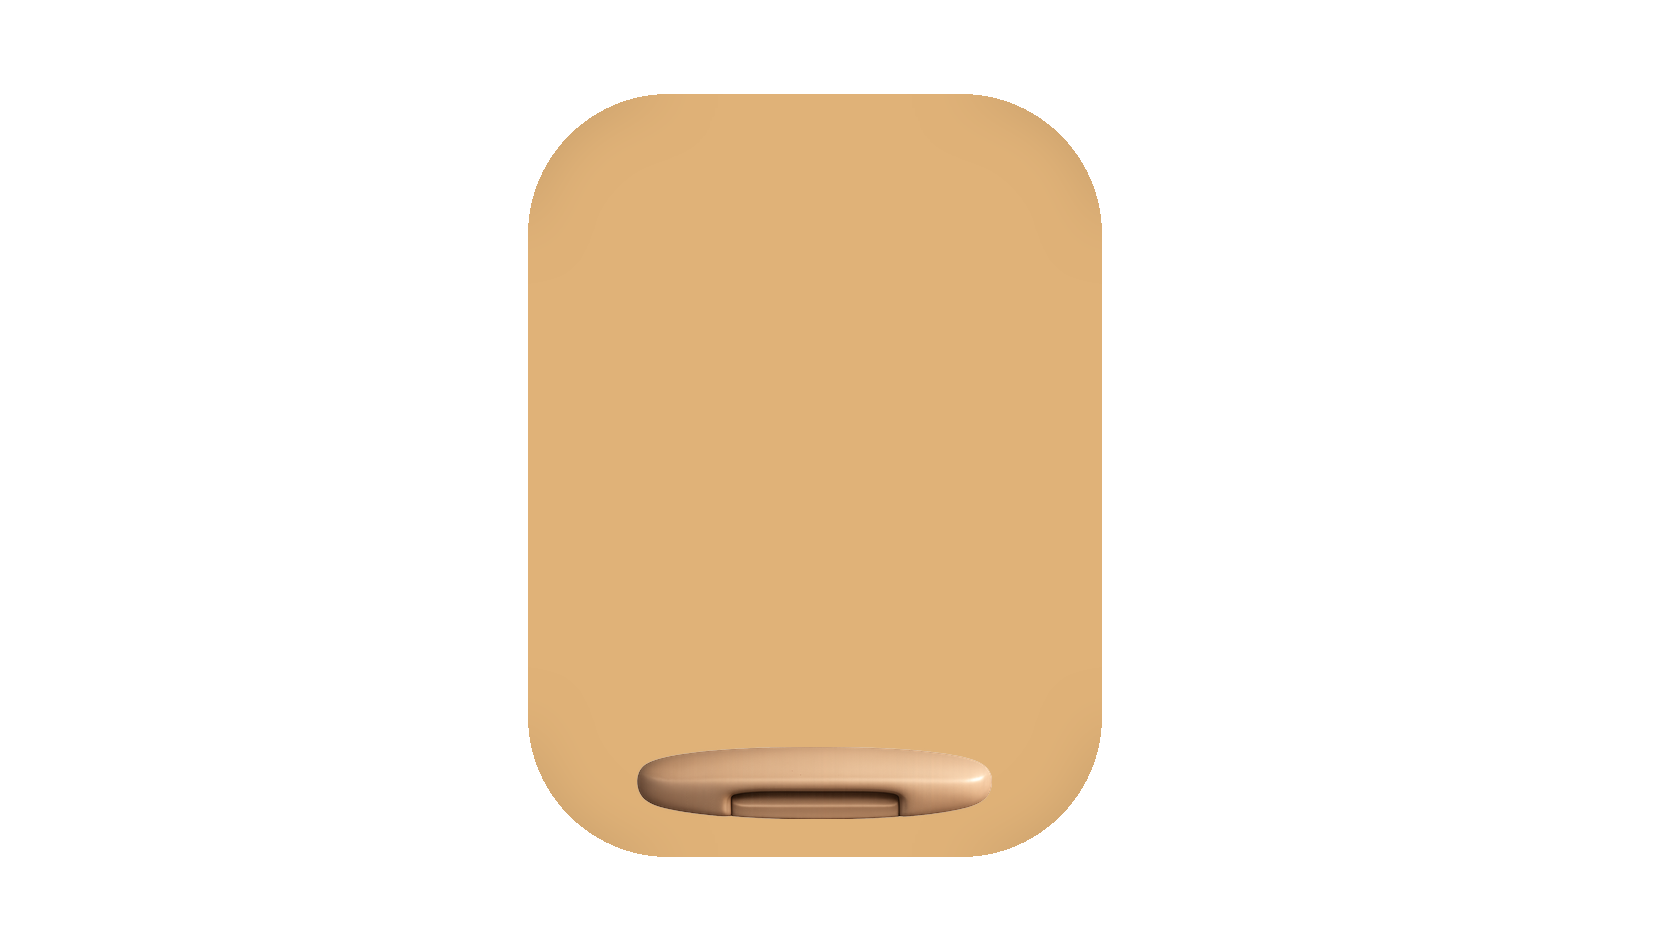
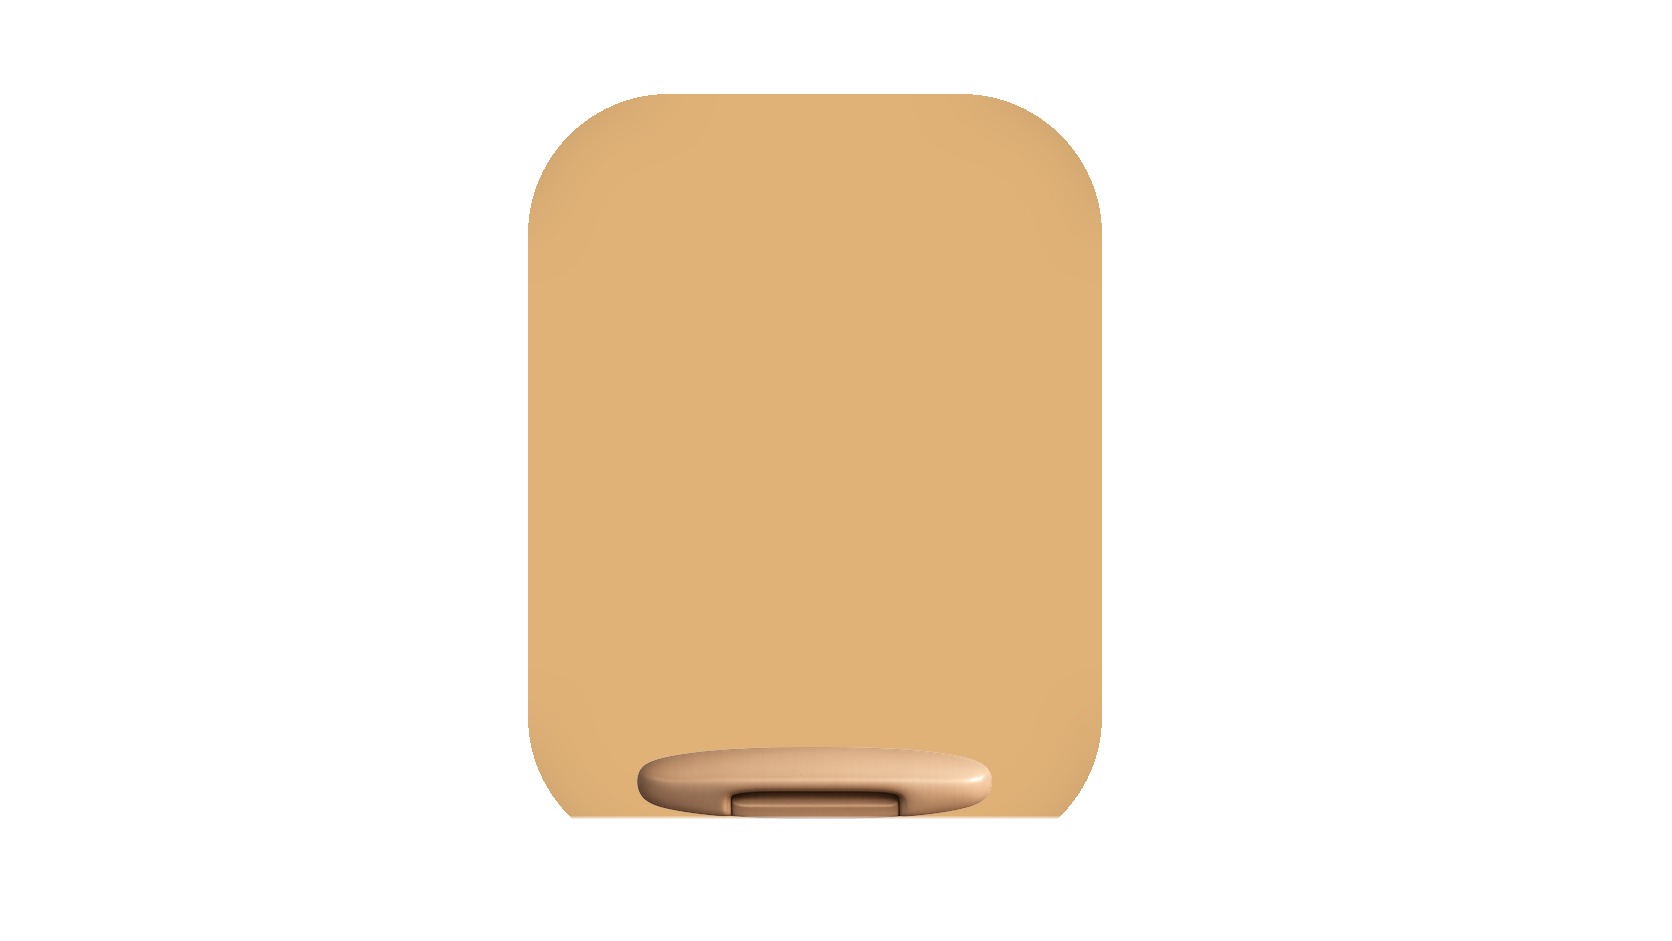
Fix scroll bar layout, handle animation, and server config
- Shrink hero-scroll rule, reduce font sizes and bar padding for tighter bottom bar
- Shift scroll bar right (left:62%) so rule spans full width above SCROLL DOWN
- Pre-position shutterHandle at its final resting spot so it never animates with the shutter lift
- Remove handle from scale/yPercent scroll animations; fade it out only after cabin zooms through
- Revert shutterHandle to z-index 1 so it sits behind the cabin frame naturally
- Switch dev server from python3 http.server to npx serve (fixes PermissionError)

Changed region(s): [[0.3421, 0.8629, 0.6531, 0.9245]]

diff --git a/script.js b/script.js
@@ -24,6 +24,15 @@ document.documentElement.style.overflow = "hidden";
 /* ---------------------------------------------------------
    FRAME 0 — PRELOADER (fades out, no lift)
 --------------------------------------------------------- */
+function shutterLift() {
+  const st = document.querySelector(".hero-stage");
+  if (!st || !st.clientHeight) return -68;
+  const H = st.clientHeight, W = st.clientWidth;
+  const scale = Math.max(W / 1672, H / 941);
+  // 94 = window top row, 764 = knob top row; subtract small offset to sit just inside the frame
+  return -(((764 - 94) * scale / H) * 100 - 1);
+}
+
 function runPreloader() {
   const num = document.getElementById("loadNum");
   const counter = { v: 0 };
@@ -31,6 +40,8 @@ function runPreloader() {
   /* hero waits behind, slightly scaled-in */
   gsap.set(["#cabin", "#shutter", ".sky-video"], { scale: 1.12 });
   gsap.set("#shutter", { yPercent: 0 });
+  /* handle is pre-positioned at its final resting spot and never moves */
+  gsap.set("#shutterHandle", { yPercent: shutterLift });
   gsap.set("#nav", { opacity: 0 });
   gsap.set(["#titleL", "#titleR"], { opacity: 0, y: 40 });
   gsap.set("#heroFg", { opacity: 0 });
@@ -48,9 +59,11 @@ function runPreloader() {
     .to("#preloader", { opacity: 0, duration: 1.1, ease: "InOut" }, "-=.2")
     /* settle the cabin + reveal hero copy */
     .to(["#cabin", "#shutter", ".sky-video"], { scale: 1, duration: 1.7, ease: "Out" }, "-=1.1")
-    /* lift the window shutter up — its bottom lip + knob come to rest tucked
-       just under the top of the window frame (like a real raised shade) */
-    .to("#shutter", { yPercent: -68, duration: 3.4, ease: "InOut" }, "-=1.2")
+    /* lift only the shutter panel — handle is already at its fixed position */
+    .to("#shutter", { yPercent: () => shutterLift(), duration: 3.4, ease: "InOut" }, "-=1.2")
+    /* swap: panel gone, knob-only layer stays — panel can never reappear during zoom */
+    .set("#shutter", { opacity: 0 })
+    .set("#shutterHandle", { opacity: 1 })
     .to("#nav", { opacity: 1, duration: .9, ease: "Out" }, "-=1.3")
     .to(["#titleL", "#titleR"], { opacity: 1, y: 0, duration: 1.1, ease: "Out", stagger: .12 }, "-=1.2")
     .to("#heroFg", { opacity: 1, duration: 1, ease: "Out" }, "-=1")
@@ -74,8 +87,8 @@ function buildHero() {
   gsap.timeline({
     scrollTrigger: { trigger: ".hero_scroll-area", start: "top top", end: "bottom bottom", scrub: true },
   })
-    .to("#cabin",     { scale: 9,    ease: "none", duration: .6 }, 0)
-    .to(".sky-video", { scale: 1.12, ease: "none", duration: .9 }, 0);
+    .to("#cabin",          { scale: 9,    ease: "none", duration: .6 }, 0)
+    .to(".sky-video",      { scale: 1.12, ease: "none", duration: .9 }, 0);
 
   /* CONTINUOUS DESCENT — objectPosition pans through the video altitude.
      scrub:1.5 adds gentle lag-smoothing to eliminate micro-jank. */
@@ -95,15 +108,19 @@ function buildHero() {
     { opacity: 0, ease: "none",
       scrollTrigger: { trigger: ".hero_scroll-area", start: "84% top", end: "bottom top", scrub: 2 } });
 
+  /* handle fades out only after cabin has fully zoomed through */
+  gsap.to("#shutterHandle", { opacity: 0, ease: "none",
+    scrollTrigger: { trigger: ".hero_scroll-area", start: "45% top", end: "58% top", scrub: true } });
+
   /* Text/UI vanishes instantly the moment any scroll happens */
   let _hidden = false;
   lenis.on("scroll", ({ scroll }) => {
     if (scroll > 10 && !_hidden) {
       _hidden = true;
-      gsap.to(["#titleL","#titleR","#heroFg","#nav","#shutter"], { opacity: 0, duration: 0.25, ease: "power2.in", overwrite: true });
+      gsap.to(["#titleL","#titleR","#heroFg","#nav"], { opacity: 0, duration: 0.25, ease: "power2.in", overwrite: true });
     } else if (scroll <= 10 && _hidden) {
       _hidden = false;
-      gsap.to(["#titleL","#titleR","#heroFg","#shutter"], { opacity: 1, duration: 0.4, ease: "power2.out", overwrite: true });
+      gsap.to(["#titleL","#titleR","#heroFg"], { opacity: 1, duration: 0.4, ease: "power2.out", overwrite: true });
       gsap.to("#nav",                           { opacity: 1, duration: 0.4, ease: "power2.out", overwrite: true });
     }
   });

diff --git a/style.css b/style.css
@@ -147,14 +147,30 @@ a{color:inherit;text-decoration:none}
 .btn-pill:hover{transform:translateX(-50%) translateY(-2px);background:rgba(255,255,255,0.2)}
 .btn-pill_ico{width:28px;height:28px;border-radius:50%;background:rgba(255,255,255,0.22);color:#fff;display:grid;place-items:center}
 .hero-scroll{
-  position:absolute;right:clamp(1.2rem,3.5vw,3.4rem);bottom:7vh;
-  display:flex;align-items:center;gap:1rem;
-  font-size:.72rem;letter-spacing:.2em;text-transform:uppercase;font-weight:600;
+  position:absolute;left:62%;right:0;bottom:0;
+  display:flex;flex-direction:column;
+  font-size:.72rem;letter-spacing:.18em;text-transform:uppercase;font-weight:700;color:#fff;
 }
-.hero-scroll i{opacity:.5;font-style:normal}
-.hero-scroll_line{width:64px;height:1px;background:rgba(255,255,255,.4)}
-.hero-scroll_chev{width:18px;height:18px;border-right:2px solid #fff;border-bottom:2px solid #fff;transform:rotate(45deg);animation:chev 1.8s var(--ease) infinite}
-@keyframes chev{0%,100%{transform:rotate(45deg) translate(0,0);opacity:.4}50%{transform:rotate(45deg) translate(3px,3px);opacity:.9}}
+.hero-scroll_rule{display:block;width:100%;height:1px;background:rgba(255,255,255,.35)}
+.hero-scroll_bar{
+  display:flex;align-items:center;justify-content:space-between;
+  padding:.55rem clamp(1.2rem,3.5vw,3.4rem);
+}
+.hero-scroll_left{display:flex;align-items:center;gap:.75rem}
+.hero-scroll_chev{
+  display:flex;flex-direction:column;gap:2px;
+}
+.hero-scroll_chev::before,.hero-scroll_chev::after{
+  content:'';display:block;
+  width:7px;height:7px;
+  border-right:1.5px solid #fff;border-bottom:1.5px solid #fff;
+  transform:rotate(45deg);
+  animation:chev 1.8s var(--ease) infinite;
+}
+.hero-scroll_chev::after{animation-delay:.18s}
+.hero-scroll_label{font-size:.62rem;letter-spacing:.18em;font-weight:700}
+.hero-scroll_right{font-size:.62rem;letter-spacing:.18em;font-weight:700}
+@keyframes chev{0%,100%{opacity:.35;transform:rotate(45deg) translate(0,0)}50%{opacity:1;transform:rotate(45deg) translate(3px,3px)}}
 @media(max-width:900px){.hero-scroll,.hero-lead .rule{display:none}}
 
 .btn-pill.dark{position:static;transform:none;background:var(--ink);color:var(--paper);padding:1rem 2rem}

diff --git a/index.html b/index.html
@@ -9,7 +9,7 @@
   <link rel="preconnect" href="https://fonts.googleapis.com" />
   <link rel="preconnect" href="https://fonts.gstatic.com" crossorigin />
   <link href="https://fonts.googleapis.com/css2?family=Manrope:wght@300;400;500;600;700;800&display=swap" rel="stylesheet" />
-  <link rel="stylesheet" href="style.css?v=18" />
+  <link rel="stylesheet" href="style.css?v=22" />
 </head>
 <body>
 
@@ -49,8 +49,9 @@
     <div class="hero-w">
       <div class="hero-stage">
 
-        <!-- window shutter — sits in the window opening, lifts up on load -->
-        <img class="shutter" id="shutter" src="assets/cabin-shutter.png?v=4" alt="" />
+        <!-- window shutter — lifts on load, swapped for handle-only after -->
+        <img class="shutter" id="shutter" src="assets/cabin-shutter.png?v=9" alt="" />
+        <img class="shutter" id="shutterHandle" src="assets/cabin-knob.png" alt="" style="opacity:0;" />
 
         <!-- cabin (near) flies through, revealing the persistent fixed sky behind it -->
         <img class="cabin" id="cabin" src="assets/cabin-full copy.png" alt="" />
@@ -75,9 +76,14 @@
           </button>
 
           <div class="hero-scroll">
-            <span class="hero-scroll_chev"></span>
-            <span class="hero-scroll_line"></span>
-            <span><b>Scroll Down</b> <i>To Start The Journey</i></span>
+            <span class="hero-scroll_rule"></span>
+            <div class="hero-scroll_bar">
+              <div class="hero-scroll_left">
+                <span class="hero-scroll_chev"></span>
+                <span class="hero-scroll_label">Scroll Down</span>
+              </div>
+              <span class="hero-scroll_right">To Start The Journey</span>
+            </div>
           </div>
         </div>
 
@@ -155,6 +161,6 @@
   <script src="https://cdnjs.cloudflare.com/ajax/libs/gsap/3.12.5/ScrollTrigger.min.js"></script>
   <script src="https://cdnjs.cloudflare.com/ajax/libs/gsap/3.12.5/CustomEase.min.js"></script>
   <script src="https://unpkg.com/@studio-freight/lenis@1.0.42/dist/lenis.min.js"></script>
-  <script src="script.js?v=18"></script>
+  <script src="script.js?v=28"></script>
 </body>
 </html>